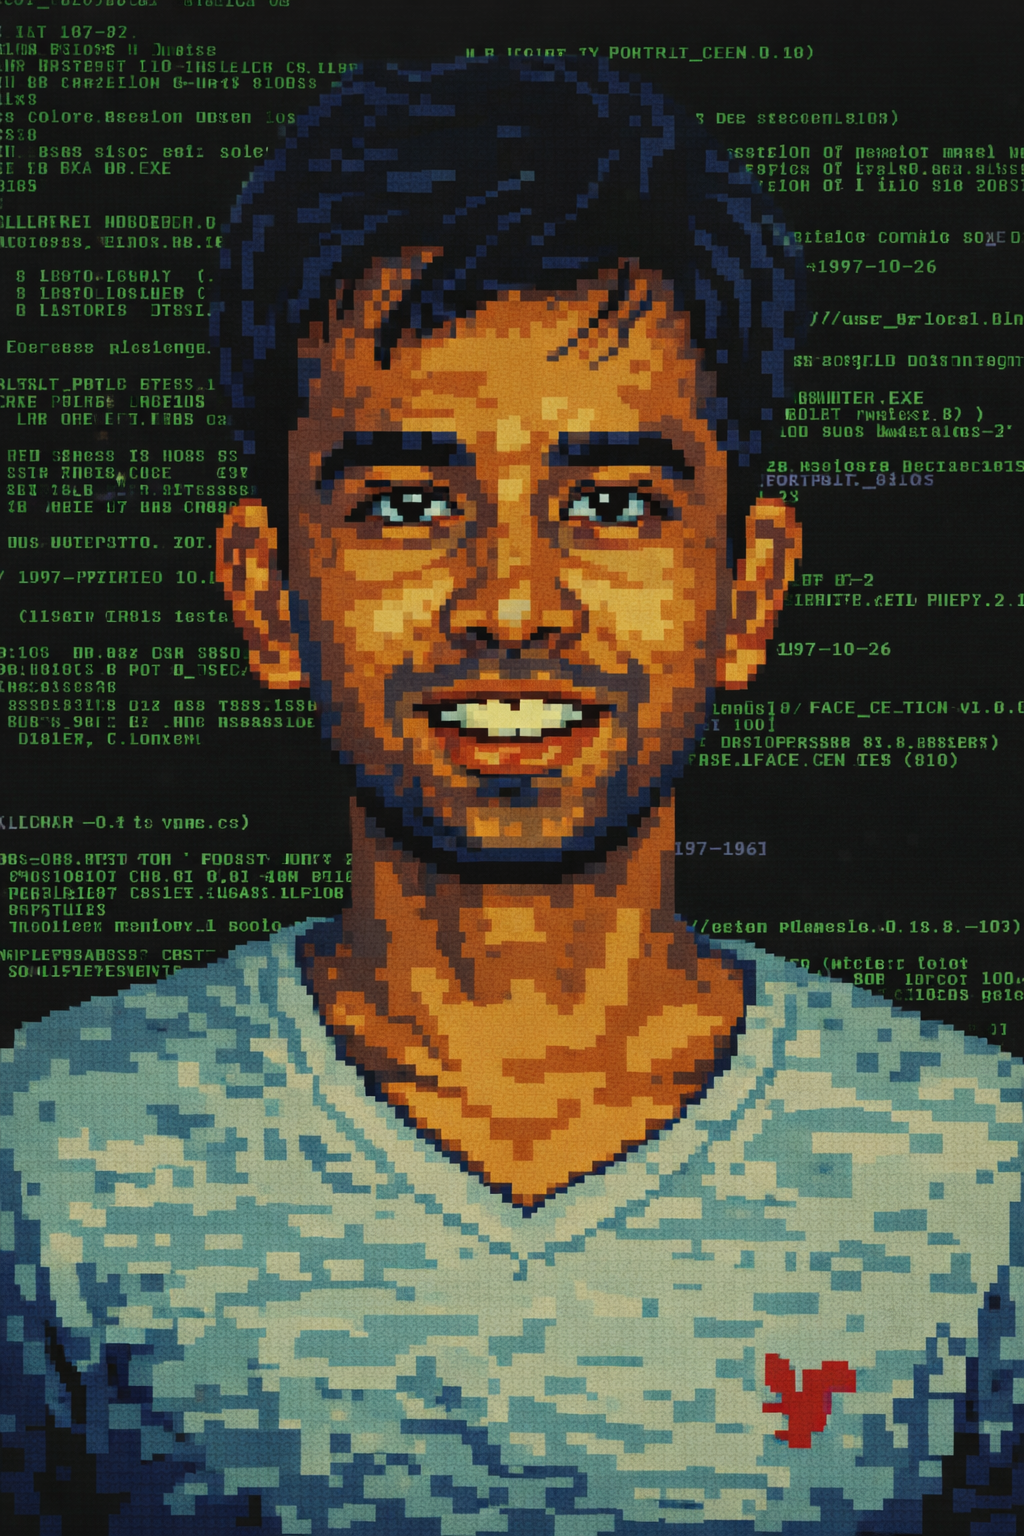
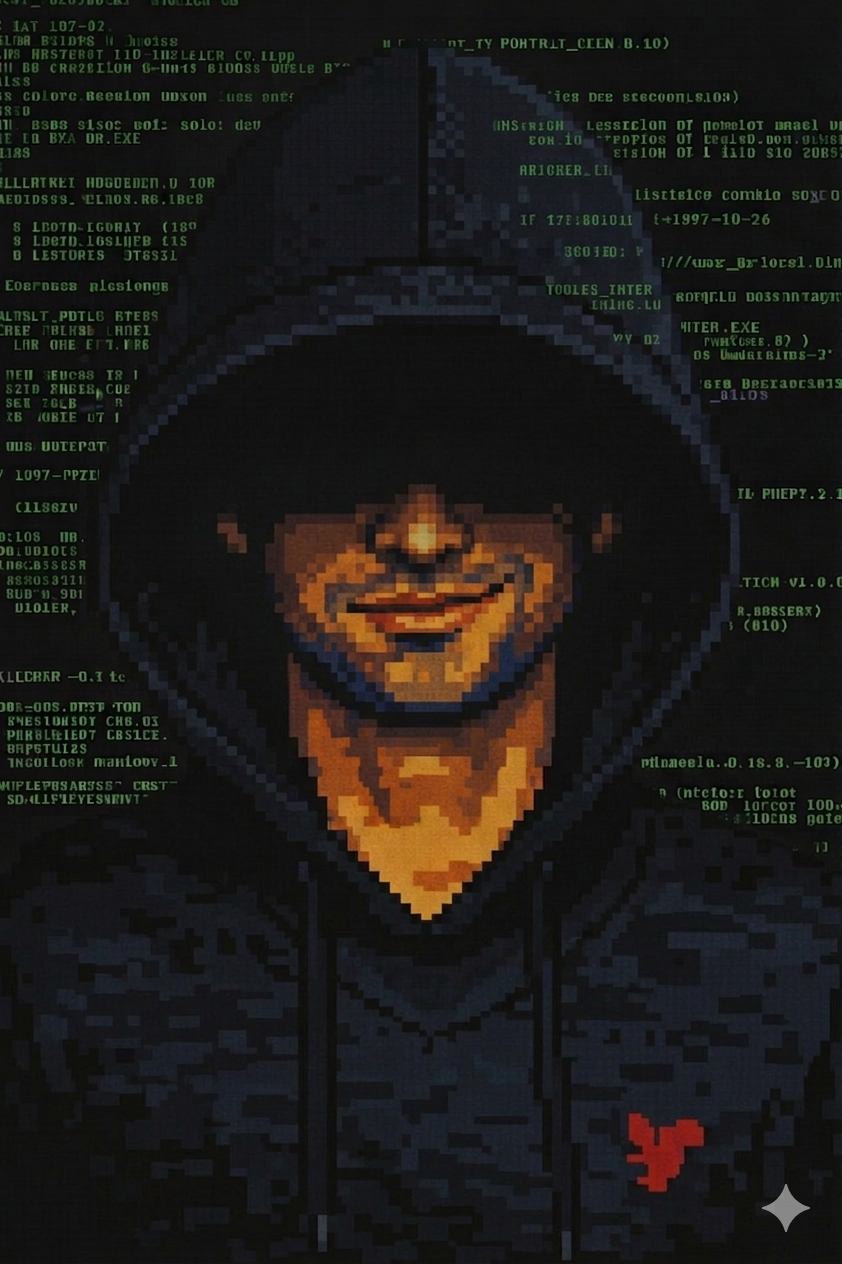
changed profile picture and removes gutter

diff --git a/assets/js/main.js b/assets/js/main.js
@@ -833,27 +833,11 @@ function showToast(message) {
 
 function initSystemLayers() {
     const mainContent = document.getElementById('main-content');
-    const gutter = document.getElementById('sys-gutter');
     const watermarks = document.querySelectorAll('.watermark');
     const hero = document.getElementById('hero');
     if (!mainContent || !hero) return;
 
-    // Virtual gutter: only render visible lines, update text on scroll
-    const lineHeight = 20;
-    const visibleLines = Math.ceil(window.innerHeight / lineHeight) + 2;
-    const gutterSpans = [];
-
-    if (gutter) {
-        for (let i = 0; i < visibleLines; i++) {
-            const span = document.createElement('span');
-            span.className = 'gutter-line';
-            span.textContent = String(i + 1).padStart(3, '0');
-            gutter.appendChild(span);
-            gutterSpans.push(span);
-        }
-    }
-
-    // Scroll handler: update gutter numbers + parallax watermarks
+    // Scroll handler: parallax watermarks
     let ticking = false;
     function onScroll() {
         if (ticking) return;
@@ -861,17 +845,6 @@ function initSystemLayers() {
         requestAnimationFrame(() => {
             const scrollY = window.scrollY;
 
-            // Gutter: update line numbers based on scroll position
-            if (gutterSpans.length) {
-                const firstLine = Math.floor(scrollY / lineHeight) + 1;
-                const offset = -(scrollY % lineHeight);
-                gutter.style.paddingTop = offset + 'px';
-                for (let i = 0; i < gutterSpans.length; i++) {
-                    gutterSpans[i].textContent = String(firstLine + i).padStart(3, '0');
-                }
-            }
-
-            // Watermarks: subtle parallax (move slower than scroll)
             watermarks.forEach((wm, i) => {
                 const speed = 0.05 + (i * 0.03);
                 const baseRotation = wm.classList.contains('wm-1') ? -12

diff --git a/assets/css/styles.css b/assets/css/styles.css
@@ -126,44 +126,14 @@
     transform: rotate(-5deg);
 }
 
-/* Layer 3: IDE Line-Number Gutter */
-.sys-gutter {
-    position: fixed;
-    top: 0;
-    left: 0;
-    width: 48px;
-    height: 100vh;
-    z-index: 2;
-    background: rgba(10, 10, 10, 0.95);
-    border-right: 1px solid rgba(0, 128, 128, 0.08);
-    pointer-events: none;
-    overflow: hidden;
-    opacity: 1;
-}
-
-.gutter-line {
-    display: block;
-    font-family: var(--font-mono);
-    font-size: 0.6rem;
-    color: rgba(0, 128, 128, 0.25);
-    text-align: right;
-    padding-right: 10px;
-    line-height: 20px;
-    height: 20px;
-}
-
 /* Activation class — toggled by JS after scrolling past hero */
 .layers-active .sys-grid,
 .layers-active .sys-watermarks {
     opacity: 1;
 }
 
-/* Mobile: hide gutter, tone down layers */
+/* Mobile: tone down layers */
 @media (max-width: 768px) {
-    .sys-gutter {
-        display: none;
-    }
-
     .watermark {
         font-size: clamp(1.5rem, 5vw, 3rem);
         opacity: 0.7;

diff --git a/index.html b/index.html
@@ -35,9 +35,6 @@
         </button>
     </div>
 
-    <!-- IDE Gutter (always visible) -->
-    <div id="sys-gutter" class="sys-gutter" aria-hidden="true"></div>
-
     <!-- Main Content (hidden until intro completes/skipped) -->
     <main id="main-content" class="main-content" hidden>
         <!-- Background Grid (Task 12) -->
